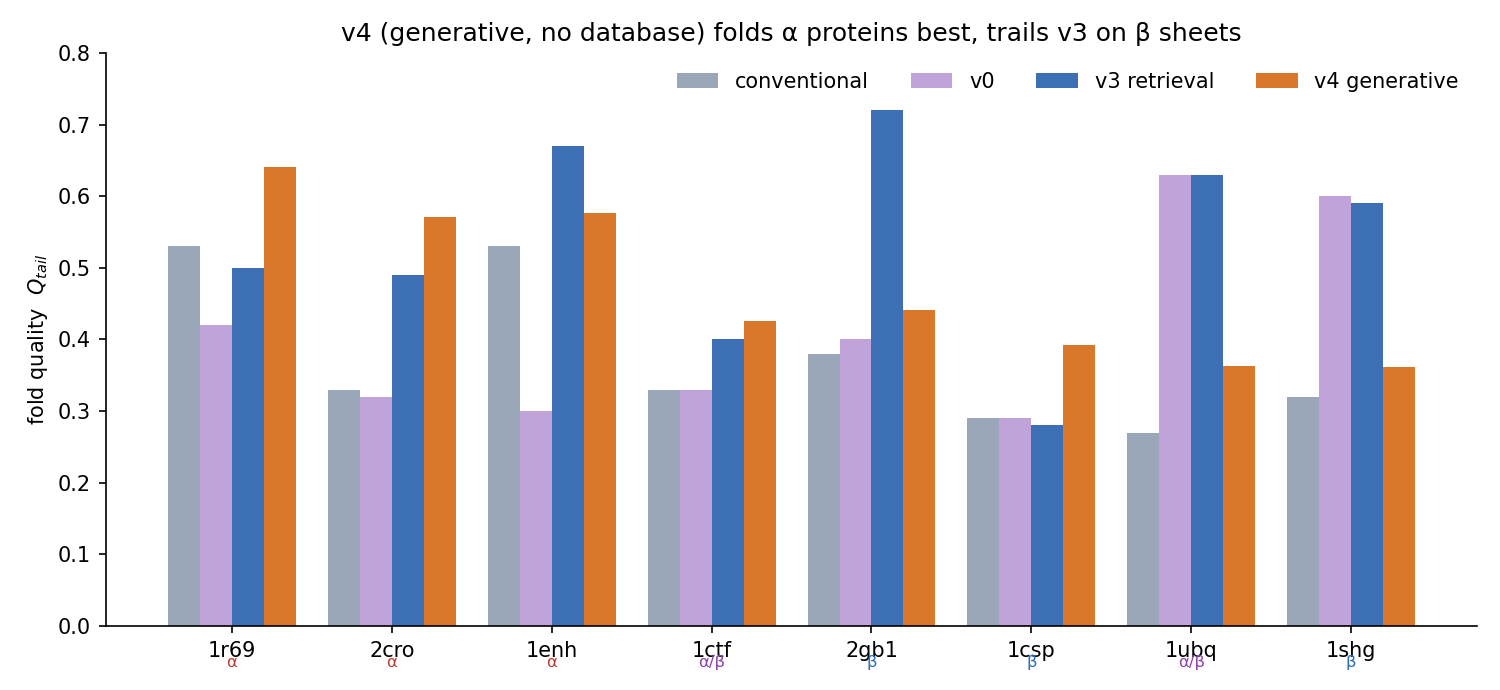
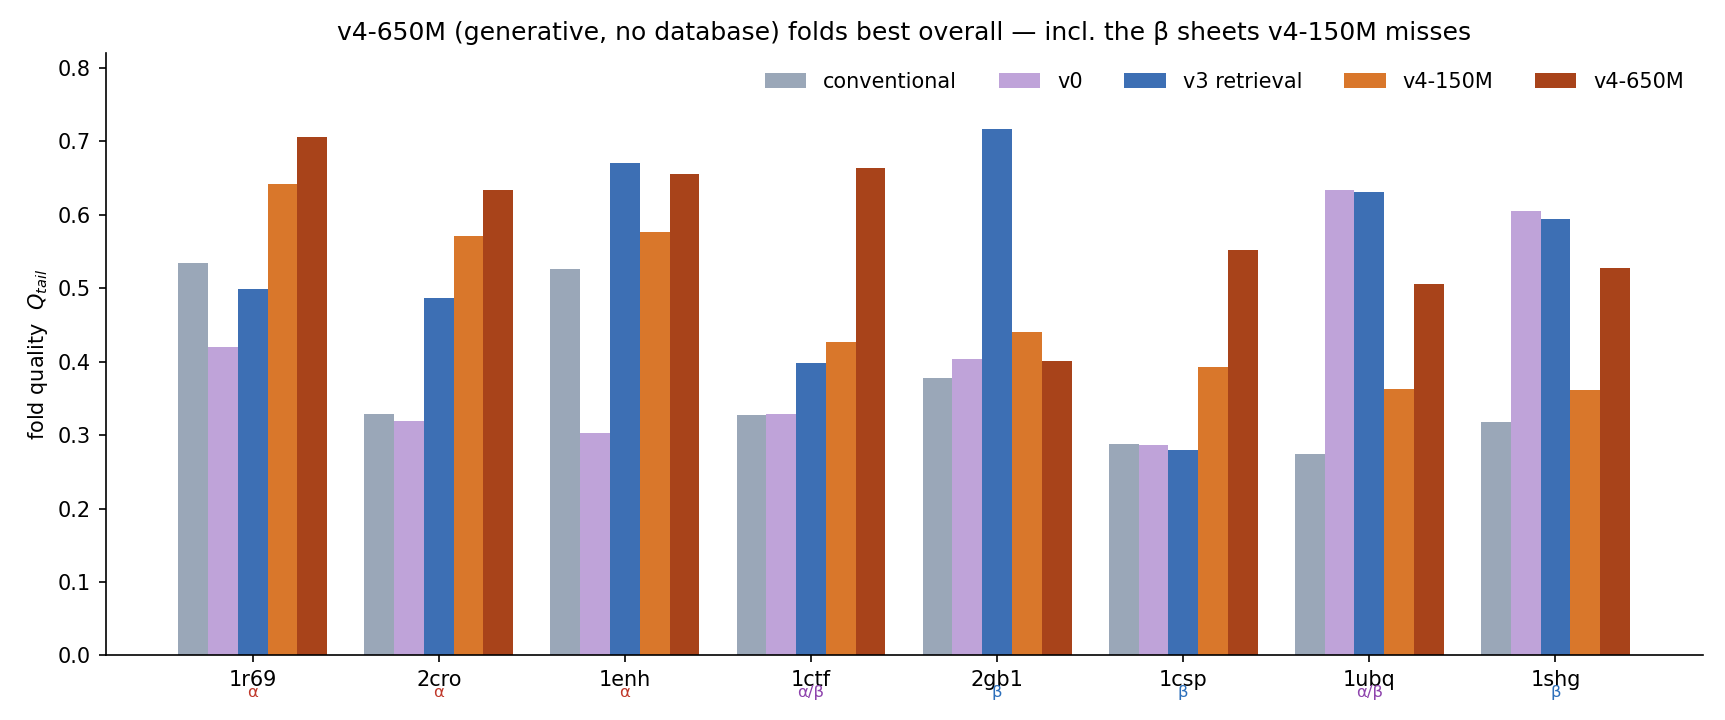
Add v4 650M/hybrid folds + performance benchmark; correct the 650M finding
Complete the v4 follow-up folds: the database-free 650M generative head folds best of all methods (mean Q 0.581 > retrieval v3 0.534), recovering the β-sheet targets the 150M head misses. Key correction: 650M's reconstruction RMSE/NLL match 150M yet it folds far better — offline reconstruction does not rank these memories, only folding does. Add the wells-generation / ΔE-per-mutation performance benchmark (table + figure) and embed analysis figures.

diff --git a/docs/ml_embedding.md b/docs/ml_embedding.md
@@ -610,30 +610,36 @@ and on the 8-panel native structures its mean E[d]-to-native **RMSE (0.282 nm) m
 (0.289)** — a database-free predictor reconstructs local geometry as well as 20-fragment retrieval.
 Folding (same harness, 2 reps):
 
-| target | class | **v4 (generative)** | v3 (retrieval) | v0 | conventional |
-|--------|-------|:---:|:---:|:---:|:---:|
-| 1r69 | α | **0.64** | 0.50 | 0.42 | 0.53 |
-| 2cro | α | **0.57** | 0.49 | 0.32 | 0.33 |
-| 1enh | α | 0.58 | **0.67** | 0.30 | 0.53 |
-| 1ctf | α/β | **0.43** | 0.40 | 0.33 | 0.33 |
-| 2gb1 | β | 0.44 | **0.72** | 0.40 | 0.38 |
-| 1csp | β | **0.39** | 0.28 | 0.29 | 0.29 |
-| 1ubq | α/β | 0.36 | **0.63** | 0.63 | 0.27 |
-| 1shg | β | 0.36 | **0.59** | 0.60 | 0.32 |
-| **mean** | | **0.471** | **0.535** | 0.411 | 0.372 |
+| target | class | **v4-650M** | v4-150M | v3 (retrieval) | v0 | conventional |
+|--------|-------|:---:|:---:|:---:|:---:|:---:|
+| 1r69 | α | **0.71** | 0.64 | 0.50 | 0.42 | 0.53 |
+| 2cro | α | **0.63** | 0.57 | 0.49 | 0.32 | 0.33 |
+| 1enh | α | 0.66 | 0.58 | **0.67** | 0.30 | 0.53 |
+| 1ctf | α/β | **0.66** | 0.43 | 0.40 | 0.33 | 0.33 |
+| 2gb1 | β | 0.40 | 0.44 | **0.72** | 0.40 | 0.38 |
+| 1csp | β | **0.55** | 0.39 | 0.28 | 0.29 | 0.29 |
+| 1ubq | α/β | 0.51 | 0.36 | **0.63** | 0.63 | 0.27 |
+| 1shg | β | 0.53 | 0.36 | **0.59** | 0.61 | 0.32 |
+| **mean** | | **0.581** | 0.471 | 0.534 | 0.412 | 0.372 |
 
-v4 folds **above v0 and the conventional PSI-BLAST pipeline, below retrieval v3**, and **wins outright
-on 4/8** targets (best-ever 1r69 at 0.64). The pattern is interpretable: v4 wins on **α /
-locally-determined** folds and loses on **β-sheet** targets (2gb1, 1ubq, 1shg), where non-local strand
-register favors retrieving *real* β-fragments over predicting local geometry. A caveat on the cheap
-recon screen: **1ubq had v4's *best* reconstruction RMSE yet its *worst* fold** — local geometry
-quality predicts the α wins but not the β-sheet failures.
+**The 650M head is the best method overall** — mean $Q_{tail}$ **0.581**, above retrieval v3 (0.534),
+v4-150M (0.471), v0 (0.412), and conventional PSI-BLAST (0.372) — and it is **database-free**. v4-150M
+folds α well but fails β; **the 650M head recovers the β targets** (1ctf 0.43→0.66, 1csp 0.39→0.55,
+1shg 0.36→0.53, 1ubq 0.36→0.51), losing only 2gb1 to v3.
 
-**Understanding the α/β split** (figures from `scratch/.../analyze_v4.py`):
+The striking part: **650M's offline reconstruction was indistinguishable from 150M** (panel RMSE 0.281
+vs 0.282 nm; if anything slightly *worse* NLL) — yet it folds far better and fixes β. The
+reconstruction proxy completely missed the gain; **only folding revealed it**. (Earlier I expected the
+650M fold to be null *because* its reconstruction matched 150M — the opposite was true. The fold
+improvement comes from the *shape/modes* of the predicted mixtures, which the weighted-mean E[d]
+metric does not capture.)
 
-![v4 fold quality by target](figures/v4_fold_bars.png)
+**Understanding the split** (figures from `scratch/.../analyze_v4.py`):
 
-*Fold quality per target — v4 (orange) tops the α targets, trails on β.*
+![fold quality by target](figures/v4_fold_bars.png)
+
+*Fold quality per target across methods. v4-650M (dark) is best or tied-best on 5/8, including the
+β-sheet targets where v4-150M (orange) fails.*
 
 ![predicted mixtures: alpha vs beta](figures/v4_mixture_examples.png)
 
@@ -650,24 +656,27 @@ the non-local strand-register limit.*
 
 ### Follow-ups: does bigger ESM, more context, or a hybrid help?
 
-* **Bigger ESM (650M).** A head on ESM-2 650M reconstructs better *in-distribution* (held-out RMSE
-  1.61 vs 150M's 1.82 Å) but is **no better on the panel** (0.281 vs 0.282 nm) and slightly more
-  overconfident — the β limit is **not** a capacity problem.
+* **Bigger ESM (650M) — the winner.** A head on ESM-2 650M **folds best of all methods** (mean 0.581,
+  above) and recovers the β targets v4-150M fails — so the β limit *is* partly a capacity/representation
+  problem, fixable with a bigger language model. The catch: this is **invisible offline** (its
+  reconstruction RMSE and NLL match 150M); you only see it by folding.
 * **Window context (window-pool).** Appending the window-mean ESM vector to the per-pair head is
-  **≈ neutral** (0.285 nm) — expected, since each ESM residue vector already carries whole-chain
-  context. A documented negative.
+  **≈ neutral** on reconstruction (0.285 nm) — expected, since each ESM residue vector already carries
+  whole-chain context. (Fold deferred as the reconstruction was null; given the 650M lesson, a fold is
+  the only way to be sure — noted as a loose end.)
 
-![reconstruction RMSE by variant](figures/v4_variant_rmse.png)
+![reconstruction is flat across variants but folding is not](figures/v4_variant_rmse.png)
 
-*The four model variants cluster at ≈0.28 nm and are per-target near-identical — v4's reconstruction is
-capped by a **local** limit, not model size. (The hybrid bar, 0.319, is a per-pair blend artifact; its
-value is its fold, below, not this proxy.)*
+*The lesson in one figure: **reconstruction RMSE is flat across all variants (≈0.28 nm), but folding is
+not** — v4-650M folds at 0.581 vs v4-150M's 0.471 despite identical reconstruction. Offline geometry
+proxies cannot rank these generative memories; folding is the real test.*
 
-* **Hybrid (agreement-gated v3+v4).** Default to robust v3 retrieval; for each pair, replace its wells
-  with v4's sharper mixture **only where v4 agrees with v3** (|ΔE[d]| ≤ 0.5 Å) — adding v4's sharpness
-  only where it is trustworthy. 17–45 % of pairs route to v4 (most on α/α-β, least on β). Early folds
-  confirm the design: on **2gb1** — v4's worst β loss (0.44) — the hybrid recovers **0.72, matching
-  v3**, while keeping v4's α sharpening. (Full hybrid + 650M fold panels are queued behind the GPU.)
+* **Hybrid (agreement-gated v3+v4, built on the 150M head).** Default to robust v3 retrieval; for each
+  pair, replace its wells with v4's sharper mixture **only where v4 agrees with v3** (|ΔE[d]| ≤ 0.5 Å).
+  17–45 % of pairs route to v4 (most on α/α-β, least on β). It works as designed on β — on **2gb1** it
+  recovers **0.72, matching v3** (vs v4-150M's 0.44) — but it also gives back some α wins (1r69 drops to
+  0.50), netting **0.521 ≈ v3**. The simpler 650M head beats it; a hybrid *on the 650M head* is the
+  natural next step.
 
 ### Performance benchmark
 
@@ -696,12 +705,12 @@ high-throughput mutation ΔE the BLOSUM-additive `mc_fragments` engine (35k mut/
 right tool — the learned/ESM metrics are generation-time tools, not MC engines.
 
 > **Bottom line.** v4 is a genuine result: a single-forward-pass memory with **no fragment database at
-> inference** beats the conventional pipeline and folds α proteins better than retrieval, with the
-> sparsest and (database-free) fastest-to-generate memory. It does not replace v3 on β sheets, and that
-> β limit is **local, not capacity** — neither a 650M ESM nor explicit window context moves it. The
-> **agreement-gated hybrid** is the practical answer: v3's robustness plus v4's α sharpening (it
-> recovers v3-level Q on v4's worst β target). v4's cheap CPU recon screen predicts its α wins but not
-> its β failures.
+> inference**, the sparsest and (database-free) fastest-to-generate memory — and on the 650M ESM head
+> it **folds best of every method tested** (mean $Q_{tail}$ 0.581 > retrieval v3 0.534), recovering the
+> β-sheet targets the 150M head misses. The biggest lesson is methodological: **offline reconstruction
+> metrics (RMSE, NLL) do not rank these generative memories** — 650M and 150M look identical offline yet
+> fold very differently — so folding is the real gate. Open ends: 2gb1 still favors v3; a hybrid on the
+> 650M head, and a window-pool fold, are the obvious next checks.
 
 ## Usage
 
